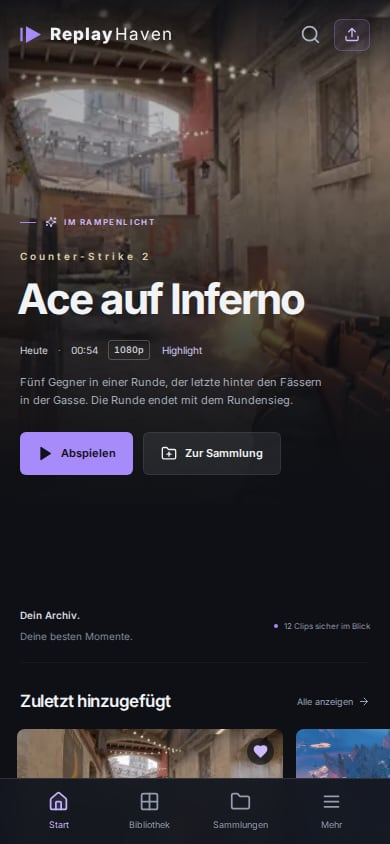
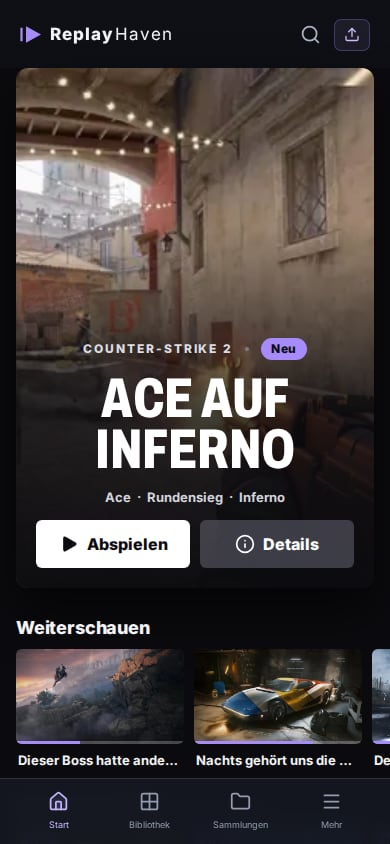
Make the streaming-style page the home page
The index route now renders the streaming home inside the existing
layout, and its stylesheet loads with the others. Details and player
keep following ?clip= and ?play=.

- Detail dialog on phones: aspect-ratio turned the hero's minimum
  height into a 533 px minimum width, so the close button sat outside
  the screen. max-width keeps the hero inside the dialog.
- The detail view names who analysed a clip instead of showing the raw
  provider "client".
- Space for the streaming tab bar is only reserved when that bar is
  rendered; inside the app layout its own footer already does this.
- Tests: the profile menu test measures the new hero, and a new test
  opens the app home on a phone and checks the dialog fits.
- README: screenshots of the new home, detail view, player and phone
  view (the image script now serves the demo video with byte ranges
  so the player can seek), banner and social preview regenerated, the
  preview section is gone. Changelog updated.

diff --git a/tests/streaming.pw.ts b/tests/streaming.pw.ts
@@ -194,3 +194,30 @@ test('Im App-Rahmen hängen Details und Player an der Adresse, Zurück schließt
   await expect(detail).toBeHidden();
   await expect(page).not.toHaveURL(/clip=/);
 });
+
+test('Die App startet mit der Streaming-Startseite, der Detaildialog passt aufs Handy', async ({
+  page,
+}) => {
+  await page.route('**/api/**', (route) =>
+    route.fulfill({ status: 503, json: { error: 'Kein Server im Test.' } }),
+  );
+  await page.route(
+    (url) => url.hostname !== 'localhost',
+    (route) => route.fulfill({ status: 404, body: '' }),
+  );
+  await page.setViewportSize({ width: 390, height: 844 });
+  await page.goto('/');
+  await expect(page.locator('.stream-hero')).toBeVisible();
+  await page.getByRole('button', { name: 'Details', exact: true }).first().click();
+  const detail = page.getByRole('dialog');
+  await expect(detail).toBeVisible();
+  await expect(page).toHaveURL(/[?&]clip=/);
+  // aspect-ratio samt Mindesthöhe schob den Kopf des Dialogs einmal auf 533 px Breite.
+  const close = detail.getByRole('button', { name: 'Schließen' });
+  const box = await close.boundingBox();
+  expect(box!.x + box!.width).toBeLessThanOrEqual(390);
+  await close.click();
+  await expect(detail).toBeHidden();
+  await expect(page).not.toHaveURL(/clip=/);
+  expect(await page.evaluate(() => document.documentElement.scrollWidth)).toBe(390);
+});

diff --git a/src/App.tsx b/src/App.tsx
@@ -3,7 +3,7 @@ import { Link, Route, Routes } from 'react-router-dom';
 import { ActionProvider } from './components/Actions';
 import { Layout } from './components/Layout';
 import { EmptyState } from './components/Cards';
-import Home from './pages/Home';
+import { StreamingHomeContainer } from './streaming';
 const Library = lazy(() => import('./pages/Library'));
 const Collections = lazy(() => import('./pages/Collections'));
 const CollectionDetail = lazy(() =>
@@ -30,7 +30,7 @@ export function App() {
       >
         <Routes>
           <Route element={<Layout />}>
-            <Route index element={<Home />} />
+            <Route index element={<StreamingHomeContainer />} />
             <Route path="library" element={<Library />} />
             <Route path="clips/:id" element={<ClipDetail />} />
             <Route path="collections" element={<Collections />} />

diff --git a/src/streaming/index.ts b/src/streaming/index.ts
@@ -1,11 +1,6 @@
 /*
- * Startseite im Streaming-Stil mit Detaildialog und Player. Noch nicht eingebunden.
- *
- * Einbau in zwei Schritten:
- * 1. src/main.tsx: nach den anderen Stylesheets `import './streaming/streaming.css';`
- * 2. src/App.tsx: `import { StreamingHomeContainer } from './streaming';` und in der Index-Route
- *    `<Route index element={<Home />} />` durch `<Route index element={<StreamingHomeContainer />} />`
- *    ersetzen.
+ * Startseite im Streaming-Stil mit Detaildialog und Player: die Index-Route in App.tsx, das
+ * Stylesheet bindet main.tsx ein.
  *
  * Details und Player hängen an `?clip=<id>` und `?play=<id>`, der Zurück-Button schließt sie.
  * Der Kopfbereich aus dem Entwurf ist `StreamingHeaderContainer` und kann den Header in Layout.tsx

diff --git a/tests/menu.pw.ts b/tests/menu.pw.ts
@@ -8,11 +8,11 @@ for (const width of [1440, 390])
     const measure = () =>
       page.evaluate(() => ({
         header: document.querySelector('.header-inner')!.getBoundingClientRect().toJSON(),
-        hero: document.querySelector('.hero-content')!.getBoundingClientRect().toJSON(),
+        hero: document.querySelector('.stream-hero-content')!.getBoundingClientRect().toJSON(),
         viewport: document.documentElement.clientWidth,
         scroll: window.scrollY,
       }));
-    await expect(page.locator('.hero-content')).toBeVisible();
+    await expect(page.locator('.stream-hero-content')).toBeVisible();
     const before = await measure();
     await trigger.click();
     await expect(page.getByRole('menu')).toBeVisible();

diff --git a/src/streaming/streaming.css b/src/streaming/streaming.css
@@ -1017,6 +1017,9 @@
   position: relative;
   isolation: isolate;
   aspect-ratio: 16 / 9;
+  /* Sonst macht aspect-ratio aus der Mindesthöhe eine Mindestbreite (300 px hoch = 533 px breit),
+     und auf dem Handy rutscht der Schließen-Button aus dem Bild. */
+  max-width: 100%;
   min-height: 360px;
   padding: 88px 48px 48px;
   display: flex;
@@ -1698,7 +1701,8 @@
     color: var(--stream-accent);
   }
 
-  .stream-home {
+  /* Platz nur für die eigene Tab-Leiste; im Layout der App bringt dessen Leiste ihren Abstand mit. */
+  .stream-tabbar ~ .stream-home {
     padding-bottom: calc(84px + env(safe-area-inset-bottom));
   }
 }

diff --git a/src/streaming/format.ts b/src/streaming/format.ts
@@ -85,8 +85,10 @@ export const confidenceLabel: Record<Confidence, string> = {
   low: 'niedrig',
 };
 
+/** Wer analysiert hat: der Windows-Client auf dem Gaming-PC, die KI des Servers oder Gemini. */
 export function providerLabel(provider: string): string {
-  if (provider === 'local') return 'Lokal auf deinem PC';
+  if (provider === 'client') return 'Auf deinem Gaming-PC';
+  if (provider === 'local') return 'KI auf dem Server';
   if (provider === 'gemini') return 'Gemini (Google)';
   return provider;
 }

diff --git a/src/main.tsx b/src/main.tsx
@@ -4,6 +4,7 @@ import { BrowserRouter } from 'react-router-dom';
 import '@fontsource-variable/inter';
 import './styles.css';
 import './analysis.css';
+import './streaming/streaming.css';
 import { VaultProvider } from './data/store';
 import { App } from './App';
 ReactDOM.createRoot(document.getElementById('root')!).render(

diff --git a/README.md b/README.md
@@ -40,7 +40,7 @@ Your clip folder probably looks like `Counter-Strike 2 2026.09.24 - 21.14.07.02.
     <td width="50%" valign="top"><b> Originals are sacred</b><br>Nothing on the gaming PC is renamed, moved or deleted. The server keeps an untouched copy, even if you delete the file at home.</td>
   </tr>
   <tr>
-    <td width="50%" valign="top"><b>  A library you want to open</b><br>The newest clip in the spotlight, rows for recent clips and favourites, search and filters per game, collections, resume playback and a keyboard-friendly player, on desktop and phone.</td>
+    <td width="50%" valign="top"><b>  A library you want to open</b><br>The newest clip in the spotlight, rows for continue watching, new clips, favourites and each game, a detail view with the AI's jump marks, a full-screen player that skips from highlight to highlight, search, filters and collections, on desktop and phone.</td>
     <td width="50%" valign="top"><b> One small container</b><br>Node.js, SQLite and FFmpeg in a single Docker image. No GPU needed on the server. Runs on a NAS, a mini PC or any Linux box.</td>
   </tr>
   <tr>
@@ -58,12 +58,16 @@ Your clip folder probably looks like `Counter-Strike 2 2026.09.24 - 21.14.07.02.
 
 <table>
   <tr>
+    <td width="50%"><img src="docs/images/app-detail.jpg" alt="Clip details with description, tags and the AI's jump marks"><br><sub>Open a clip for details and the AI's jump marks, or play it right away.</sub></td>
+    <td width="50%"><img src="docs/images/app-player.jpg" alt="Full-screen player with highlight markers on the timeline"><br><sub>The full-screen player marks every highlight and jumps to the next one.</sub></td>
+  </tr>
+  <tr>
     <td width="50%"><img src="docs/images/app-ai.jpg" alt="AI summary of a clip with title suggestion, tags and highlight timestamps"><br><sub>What the local AI returns for a clip: title, description, tags and jump marks.</sub></td>
     <td width="50%"><img src="docs/images/client.png" alt="Windows client with recording folder, server connection and local AI settings"><br><sub>The Windows client: pick a folder, connect your server, done.</sub></td>
   </tr>
   <tr>
     <td width="50%"><img src="docs/images/app-library.jpg" alt="Library with search, filters and clip grid"><br><sub>Search and filter the whole archive.</sub></td>
-    <td width="50%"><img src="docs/images/app-clip.jpg" alt="Clip page with player"><br><sub>Every clip with player, notes and the original for download.</sub></td>
+    <td width="50%"><img src="docs/images/app-clip.jpg" alt="Clip page with player"><br><sub>Every clip also has its own page with player, notes and the original for download.</sub></td>
   </tr>
 </table>
 
@@ -187,15 +191,6 @@ Operations, backups, reverse proxies and server-side AI are covered in [docs/SER
 
 ## What's next
 
-A streaming-style home page is ready in [`src/streaming`](src/streaming) and waits to be wired in: a big hero, rows per game, a detail view with the AI's jump marks and a full-screen player with highlight markers. Try it with `npm run dev` at `/streaming-preview.html`.
-
-<table>
-  <tr>
-    <td width="50%"><img src="docs/images/streaming-home.jpg" alt="Preview of the streaming-style home page"></td>
-    <td width="50%"><img src="docs/images/streaming-detail.jpg" alt="Preview of the clip detail view with jump marks"></td>
-  </tr>
-</table>
-
 Ideas for later: user accounts and share links, translations of the interface, and audio cues such as laughs in the microphone track. Audio and Rainbow Six replay events only go into the analysis once measurements on real clips show that they help.
 
 ## FAQ
@@ -267,7 +262,7 @@ npm run dev:all        # web UI on http://localhost:5173, server on 127.0.0.1:87
 
 | Directory | Contents                                                                              |
 | --------- | ------------------------------------------------------------------------------------- |
-| `src`     | React web UI, domain models, demo data layer; `src/streaming` holds the new home page |
+| `src`     | React web UI, domain models, demo data layer; home page and player in `src/streaming` |
 | `server`  | Fastify API, SQLite, media processing, optional AI providers                          |
 | `agent`   | Folder watcher, upload retries, Ollama integration, game extras and measurement tools |
 | `desktop` | Electron client (main, preload, renderer)                                             |

diff --git a/CHANGELOG.md b/CHANGELOG.md
@@ -27,11 +27,11 @@ All notable changes to this project are documented here. The format follows
   YAMNet on the CPU (downloaded on first use, pinned by SHA-256) and lists them per clip with
   time and strength, plus per-window scores for calibrating the threshold. The analysis does
   not use it yet.
-- Streaming-style home page under `src/streaming`, not wired in yet: a hero with the newest
-  analysed clip, rows for continue watching, new, favourites and your top games, game and
-  collection tiles, a clip detail dialog with the AI time stamps and a full-screen player with
-  highlight markers and keyboard controls. Details and player follow the address (`?clip=`,
-  `?play=`), so the back button closes them. `npm run dev` shows it with sample data at
+- New home page in streaming style (`src/streaming`): a hero with the newest analysed clip,
+  rows for continue watching, new, favourites and your top games, game and collection tiles, a
+  clip detail dialog with the AI time stamps and a full-screen player with highlight markers
+  and keyboard controls. Details and player follow the address (`?clip=`, `?play=`), so the
+  back button closes them. `npm run dev` also shows it with sample data at
   `/streaming-preview.html`; the production build does not include the preview.
 - `npm run r6-replays`: a measurement tool for Rainbow Six match replays. It builds the
   maintained r6-dissect fork from a pinned commit on first use (needs Go and Git), lists per
